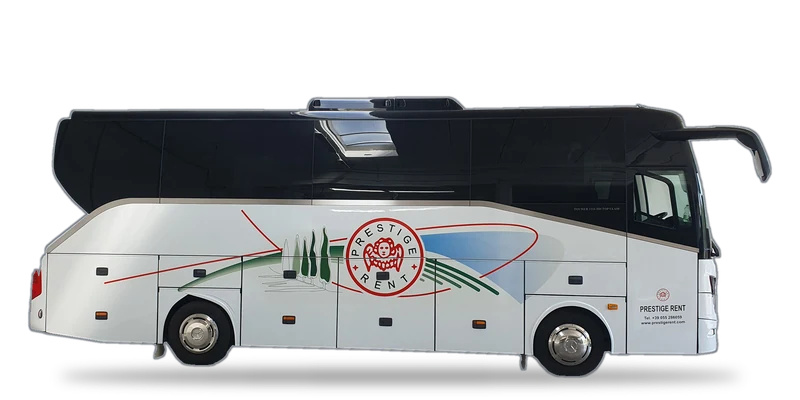
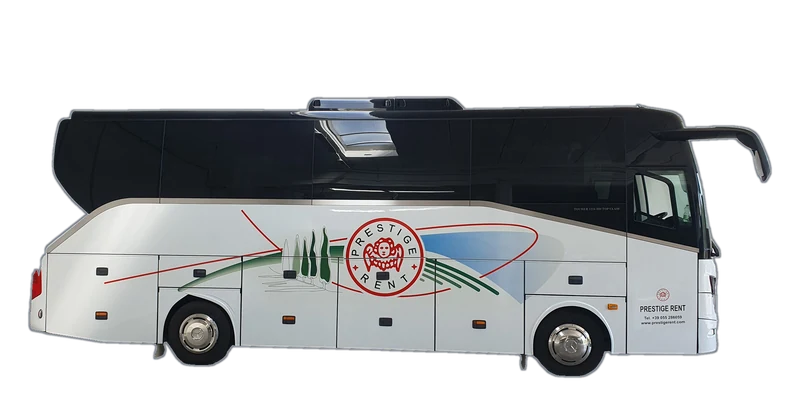
Area partner: contatti in fondo al menu (desktop e panino); pullman senza ombra a terra

Changed region(s): [[0.0938, 0.9, 0.9062, 0.99]]

diff --git a/src/components/admin/Guscio.tsx b/src/components/admin/Guscio.tsx
@@ -31,6 +31,7 @@ import { esciEVai } from '@/app/admin/entra/azioni';
 import { esciPartner } from '@/app/partners/azioni';
 import type { VoceMenu } from '@/lib/menu-admin';
 import { testiDi, type Lingua } from '@/lib/partners-testi';
+import { testiBenvenuto, whatsappLeggibile, type ContattiAzienda } from '@/lib/partners-benvenuto';
 import { SelettoreLingua } from '@/components/partners/SelettoreLingua';
 
 /* IL GUSCIO DEL PANNELLO: barra laterale, intestazione, uscita.
@@ -83,6 +84,7 @@ export function Guscio({
   sottotitolo,
   azioni,
   lingua,
+  contatti,
   children,
 }: {
   chi: string;
@@ -95,6 +97,8 @@ export function Guscio({
   azioni?: React.ReactNode;
   /** solo per l'area partner: la lingua scelta col selettore EN/IT */
   lingua?: Lingua;
+  /** solo per l'area partner: i contatti in fondo al menu */
+  contatti?: ContattiAzienda;
   children: React.ReactNode;
 }) {
   const [aperta, { toggle, close }] = useDisclosure();
@@ -240,7 +244,15 @@ export function Guscio({
         </AppShell.Section>
 
         {/* Al partner niente nota in fondo al menu: «Prezzi letti in tempo
-            reale...» tolta su richiesta della proprieta' (12/10/2026). */}
+            reale...» tolta su richiesta della proprieta' (12/10/2026). Ci
+            vanno invece i contatti, come in fondo alla brochure B2B
+            (proprieta', 13/10/2026): sotto le voci, sul computer e nel
+            menu a panino del telefono -- e' la stessa barra. */}
+        {partner && contatti && (
+          <AppShell.Section>
+            <ContattiMenu c={contatti} lingua={lingua ?? 'en'} />
+          </AppShell.Section>
+        )}
         {!partner && (
           <AppShell.Section>
             <Text size="xs" c="dimmed" px="xs" py="sm">
@@ -268,5 +280,31 @@ export function Guscio({
         {children}
       </AppShell.Main>
     </AppShell>
+  );
+}
+
+/** I contatti in fondo al menu dei partner, come nella brochure B2B:
+ *  sede, sito, email, telefono, WhatsApp. Si toccano col dito: email,
+ *  telefono e WhatsApp aprono l'app giusta. */
+function ContattiMenu({ c, lingua }: { c: ContattiAzienda; lingua: Lingua }) {
+  const T = testiBenvenuto(lingua);
+  const riga = (etichetta: string, valore: React.ReactNode) => (
+    <Text size="xs" lh={1.5}>
+      <Text span fw={700} size="xs">{etichetta}:</Text> {valore}
+    </Text>
+  );
+  const link = (href: string, testo: string, fuori = false) => (
+    <a href={href} {...(fuori ? { target: '_blank', rel: 'noopener' } : {})} style={{ color: 'inherit', textDecoration: 'none' }}>
+      {testo}
+    </a>
+  );
+  return (
+    <Box px="xs" py="sm" style={{ borderTop: '1px solid var(--mantine-color-gray-3)' }}>
+      {riga(T.sede, T.sedeValore)}
+      {riga(T.web, link('https://prestigerent.com/', 'www.prestigerent.com', true))}
+      {riga(T.email, link(`mailto:${c.email}`, c.email))}
+      {riga(T.telefono, link(`tel:${c.telefono.replace(/\s/g, '')}`, c.telefono))}
+      {riga(T.whatsapp, link(`https://wa.me/${c.whatsapp.replace(/\D/g, '')}`, whatsappLeggibile(c.whatsapp), true))}
+    </Box>
   );
 }

diff --git a/src/app/partners/welcome/page.tsx b/src/app/partners/welcome/page.tsx
@@ -4,7 +4,7 @@ import { Guscio } from '@/components/admin/Guscio';
 import { Benvenuto } from '@/components/partners/Benvenuto';
 import { vociPartner } from '@/lib/menu-admin';
 import { linguaPartner } from '@/lib/partners-lingua';
-import { supabase } from '@/lib/supabase';
+import { contattiAzienda } from '@/lib/contatti-azienda';
 
 export const dynamic = 'force-dynamic';
 export const metadata = { title: 'About us · Prestige Rent Partners' };
@@ -17,19 +17,10 @@ export const metadata = { title: 'About us · Prestige Rent Partners' };
 export default async function BenvenutoPartner() {
   const io = await soloPartner();
   const lingua = await linguaPartner();
-  const { data } = await supabase.from('azienda').select('anno_fondazione, telefono, email, whatsapp').eq('id', 1).maybeSingle();
-  const a = (data ?? {}) as { anno_fondazione?: number | null; telefono?: string | null; email?: string | null; whatsapp?: string | null };
+  const c = await contattiAzienda();
   return (
-    <Guscio chi={comeSiChiama(io)} ruolo="listino" lingua={lingua} voci={vociPartner(lingua)}>
-      <Benvenuto
-        lingua={lingua}
-        c={{
-          anno: a.anno_fondazione ?? 2000,
-          telefono: a.telefono ?? '+39 055 286059',
-          email: a.email ?? 'usa@prestigerent.com',
-          whatsapp: a.whatsapp ?? '393338424047',
-        }}
-      />
+    <Guscio chi={comeSiChiama(io)} ruolo="listino" lingua={lingua} voci={vociPartner(lingua)} contatti={c}>
+      <Benvenuto lingua={lingua} c={c} />
     </Guscio>
   );
 }

diff --git a/src/app/partners/price-list/page.tsx b/src/app/partners/price-list/page.tsx
@@ -7,6 +7,7 @@ import { vociPartner } from '@/lib/menu-admin';
 import { listino } from '@/lib/regiondo-listino';
 import { leggiCommissioni } from '@/lib/commissioni-db';
 import { linguaPartner } from '@/lib/partners-lingua';
+import { contattiAzienda } from '@/lib/contatti-azienda';
 import { testiDi } from '@/lib/partners-testi';
 
 export const dynamic = 'force-dynamic';
@@ -26,13 +27,14 @@ export default async function ListinoPartner() {
   const io = await soloPartner();
   const lingua = await linguaPartner();
   const T = testiDi(lingua);
-  const [{ servizi }, { privato, gruppo }] = await Promise.all([listino(false), leggiCommissioni()]);
+  const [{ servizi }, { privato, gruppo }, contatti] = await Promise.all([listino(false), leggiCommissioni(), contattiAzienda()]);
   const mancanti = servizi.filter((s) => !s.varianti).length;
 
   return (
     <Guscio
       chi={comeSiChiama(io)}
       ruolo="listino"
+      contatti={contatti}
       lingua={lingua}
       voci={vociPartner(lingua)}
       titolo={T.listinoTitolo}

diff --git a/src/lib/flotta.ts b/src/lib/flotta.ts
@@ -50,7 +50,8 @@
  *    dall'originale; la scritta «Webasto» del climatizzatore (marchio di
  *    un'altra azienda) e' stata tolta. E' bianco, e sul fondo chiaro
  *    della scheda il retro spariva (proprieta'): ha un contorno grigio
- *    sottile lungo la sagoma e un'ombra morbida a terra. Prima c'era una foto di Wikimedia
+ *    sottile lungo la sagoma (l'ombra a terra e' stata tolta: «non
+ *    realistica»). Prima c'era una foto di Wikimedia
  *    Commons di un modello vecchio («troppo vecchio», proprieta'): con
  *    lei sono spariti i crediti in fondo alla pagina. Oggi nessuna foto
  *    chiede crediti, ma `credito` resta per quando servira'.
@@ -252,7 +253,7 @@ export const FLOTTA: Mezzo[] = [
     persone: null,
     gruppi: false,
     suRichiesta: 'Groups of 9 or more, events and weddings, on request.',
-    foto: '/listino/flotta/atego.webp?v=4',
+    foto: '/listino/flotta/atego.webp?v=5',
     credito: null,
     it: {
       tipo: 'Pullman',

diff --git a/src/lib/contatti-azienda.ts b/src/lib/contatti-azienda.ts
@@ -1,0 +1,17 @@
+import { supabase } from '@/lib/supabase';
+import type { ContattiAzienda } from '@/lib/partners-benvenuto';
+
+/** Anno e contatti dell'azienda dalla tabella `azienda`, per la
+ *  presentazione dei partner e per i contatti in fondo al loro menu. I
+ *  valori di riserva sono quelli della brochure B2B: valgono solo se la
+ *  tabella non risponde. */
+export async function contattiAzienda(): Promise<ContattiAzienda> {
+  const { data } = await supabase.from('azienda').select('anno_fondazione, telefono, email, whatsapp').eq('id', 1).maybeSingle();
+  const a = (data ?? {}) as { anno_fondazione?: number | null; telefono?: string | null; email?: string | null; whatsapp?: string | null };
+  return {
+    anno: a.anno_fondazione ?? 2000,
+    telefono: a.telefono ?? '+39 055 286059',
+    email: a.email ?? 'usa@prestigerent.com',
+    whatsapp: a.whatsapp ?? '393338424047',
+  };
+}

diff --git a/src/components/partners/Benvenuto.tsx b/src/components/partners/Benvenuto.tsx
@@ -1,4 +1,4 @@
-import { testiBenvenuto, whatsappLeggibile } from '@/lib/partners-benvenuto';
+import { testiBenvenuto, whatsappLeggibile, type ContattiAzienda } from '@/lib/partners-benvenuto';
 import type { Lingua } from '@/lib/partners-testi';
 import css from './Benvenuto.module.css';
 
@@ -11,13 +11,6 @@ import css from './Benvenuto.module.css';
  * Mantine, quindi nessun problema di confine (CLAUDE.md). */
 
 const LOGO = 'https://oeipsfnbpaqkmwrxtcrn.supabase.co/storage/v1/object/public/media/lp/img/logo-prestige.png';
-
-export type ContattiAzienda = {
-  anno: number;
-  telefono: string;
-  email: string;
-  whatsapp: string;
-};
 
 export function Benvenuto({ lingua, c }: { lingua: Lingua; c: ContattiAzienda }) {
   const T = testiBenvenuto(lingua);

diff --git a/src/app/partners/fleet/page.tsx b/src/app/partners/fleet/page.tsx
@@ -4,6 +4,7 @@ import { Guscio } from '@/components/admin/Guscio';
 import { FlottaVista } from '@/components/partners/FlottaVista';
 import { vociPartner } from '@/lib/menu-admin';
 import { linguaPartner } from '@/lib/partners-lingua';
+import { contattiAzienda } from '@/lib/contatti-azienda';
 import { testiDi } from '@/lib/partners-testi';
 
 export const dynamic = 'force-dynamic';
@@ -17,8 +18,10 @@ export default async function FlottaPartner() {
   const io = await soloPartner();
   const lingua = await linguaPartner();
   const T = testiDi(lingua);
+  const contatti = await contattiAzienda();
   return (
     <Guscio
+      contatti={contatti}
       chi={comeSiChiama(io)}
       ruolo="listino"
       lingua={lingua}

diff --git a/src/lib/partners-benvenuto.ts b/src/lib/partners-benvenuto.ts
@@ -12,6 +12,15 @@ import type { Lingua } from './partners-testi';
  * L'anno di fondazione e i contatti NON sono qui: arrivano dalla tabella
  * `azienda`, come in tutto il sito. */
 
+/** Anno di fondazione e contatti, dalla tabella `azienda`
+ *  (src/lib/contatti-azienda.ts). Solo dati: passa dal server al menu. */
+export type ContattiAzienda = {
+  anno: number;
+  telefono: string;
+  email: string;
+  whatsapp: string;
+};
+
 export type TestiBenvenuto = {
   menu: string;
   sopratitolo: (anno: number) => string;
